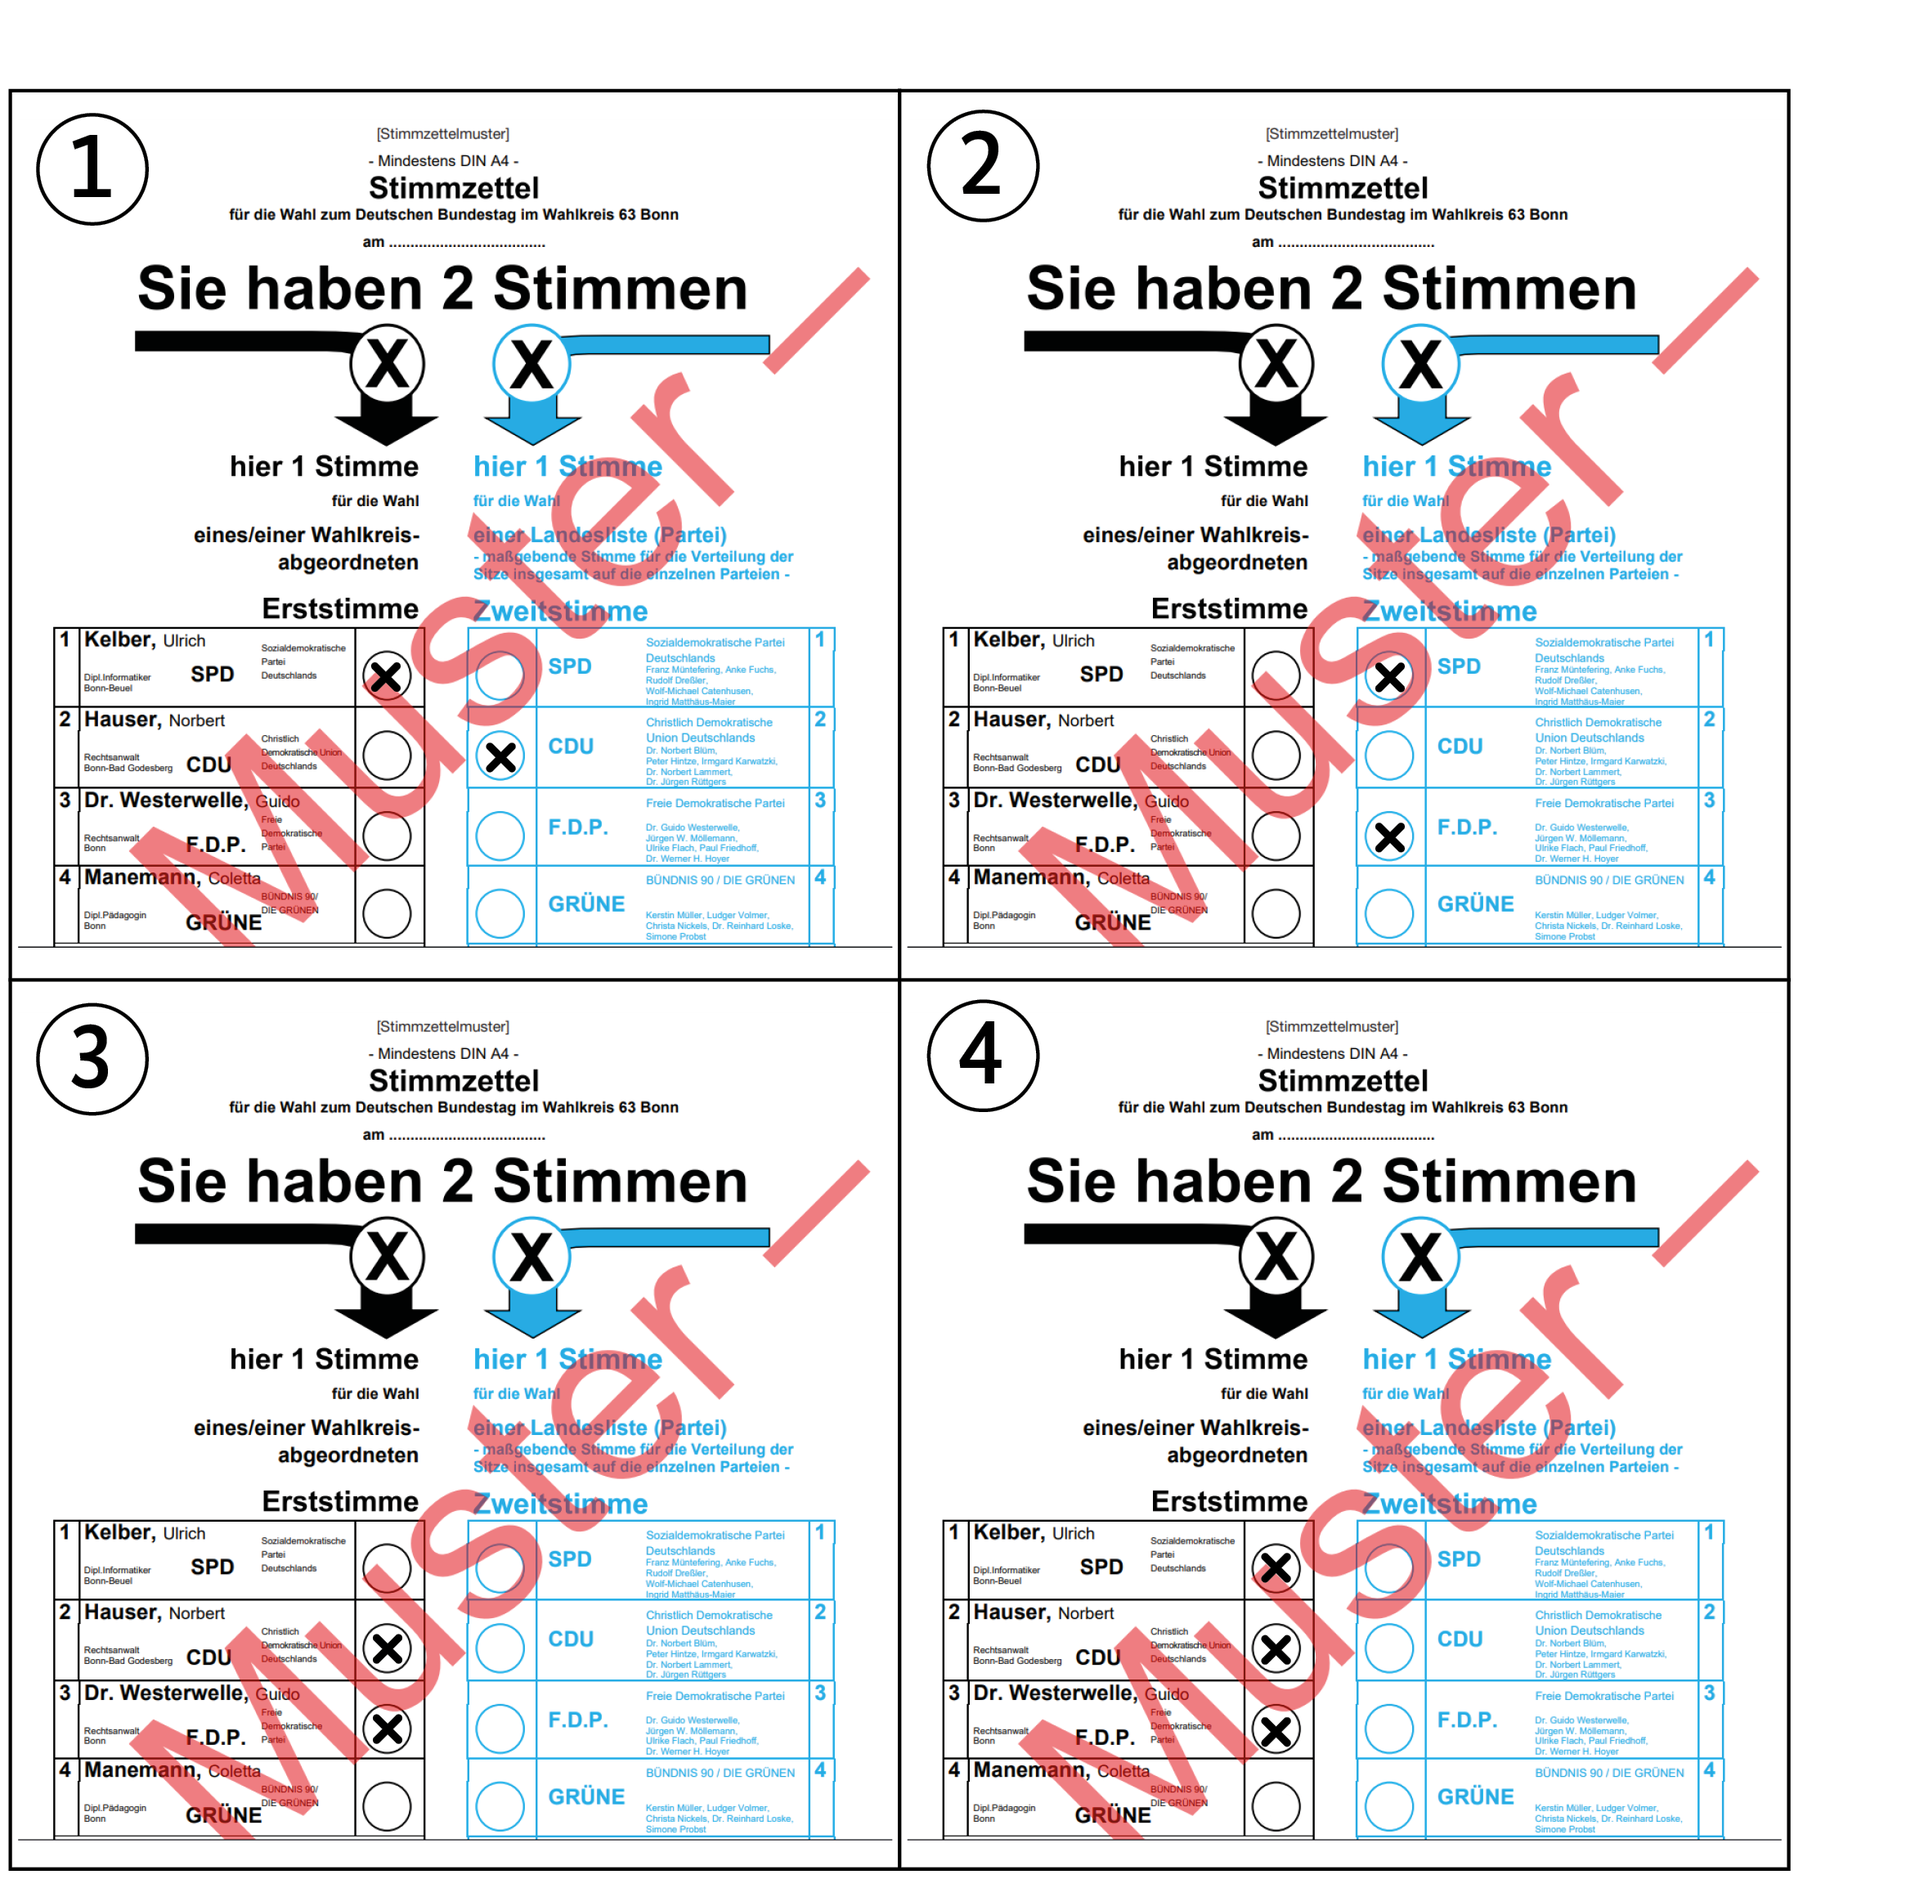
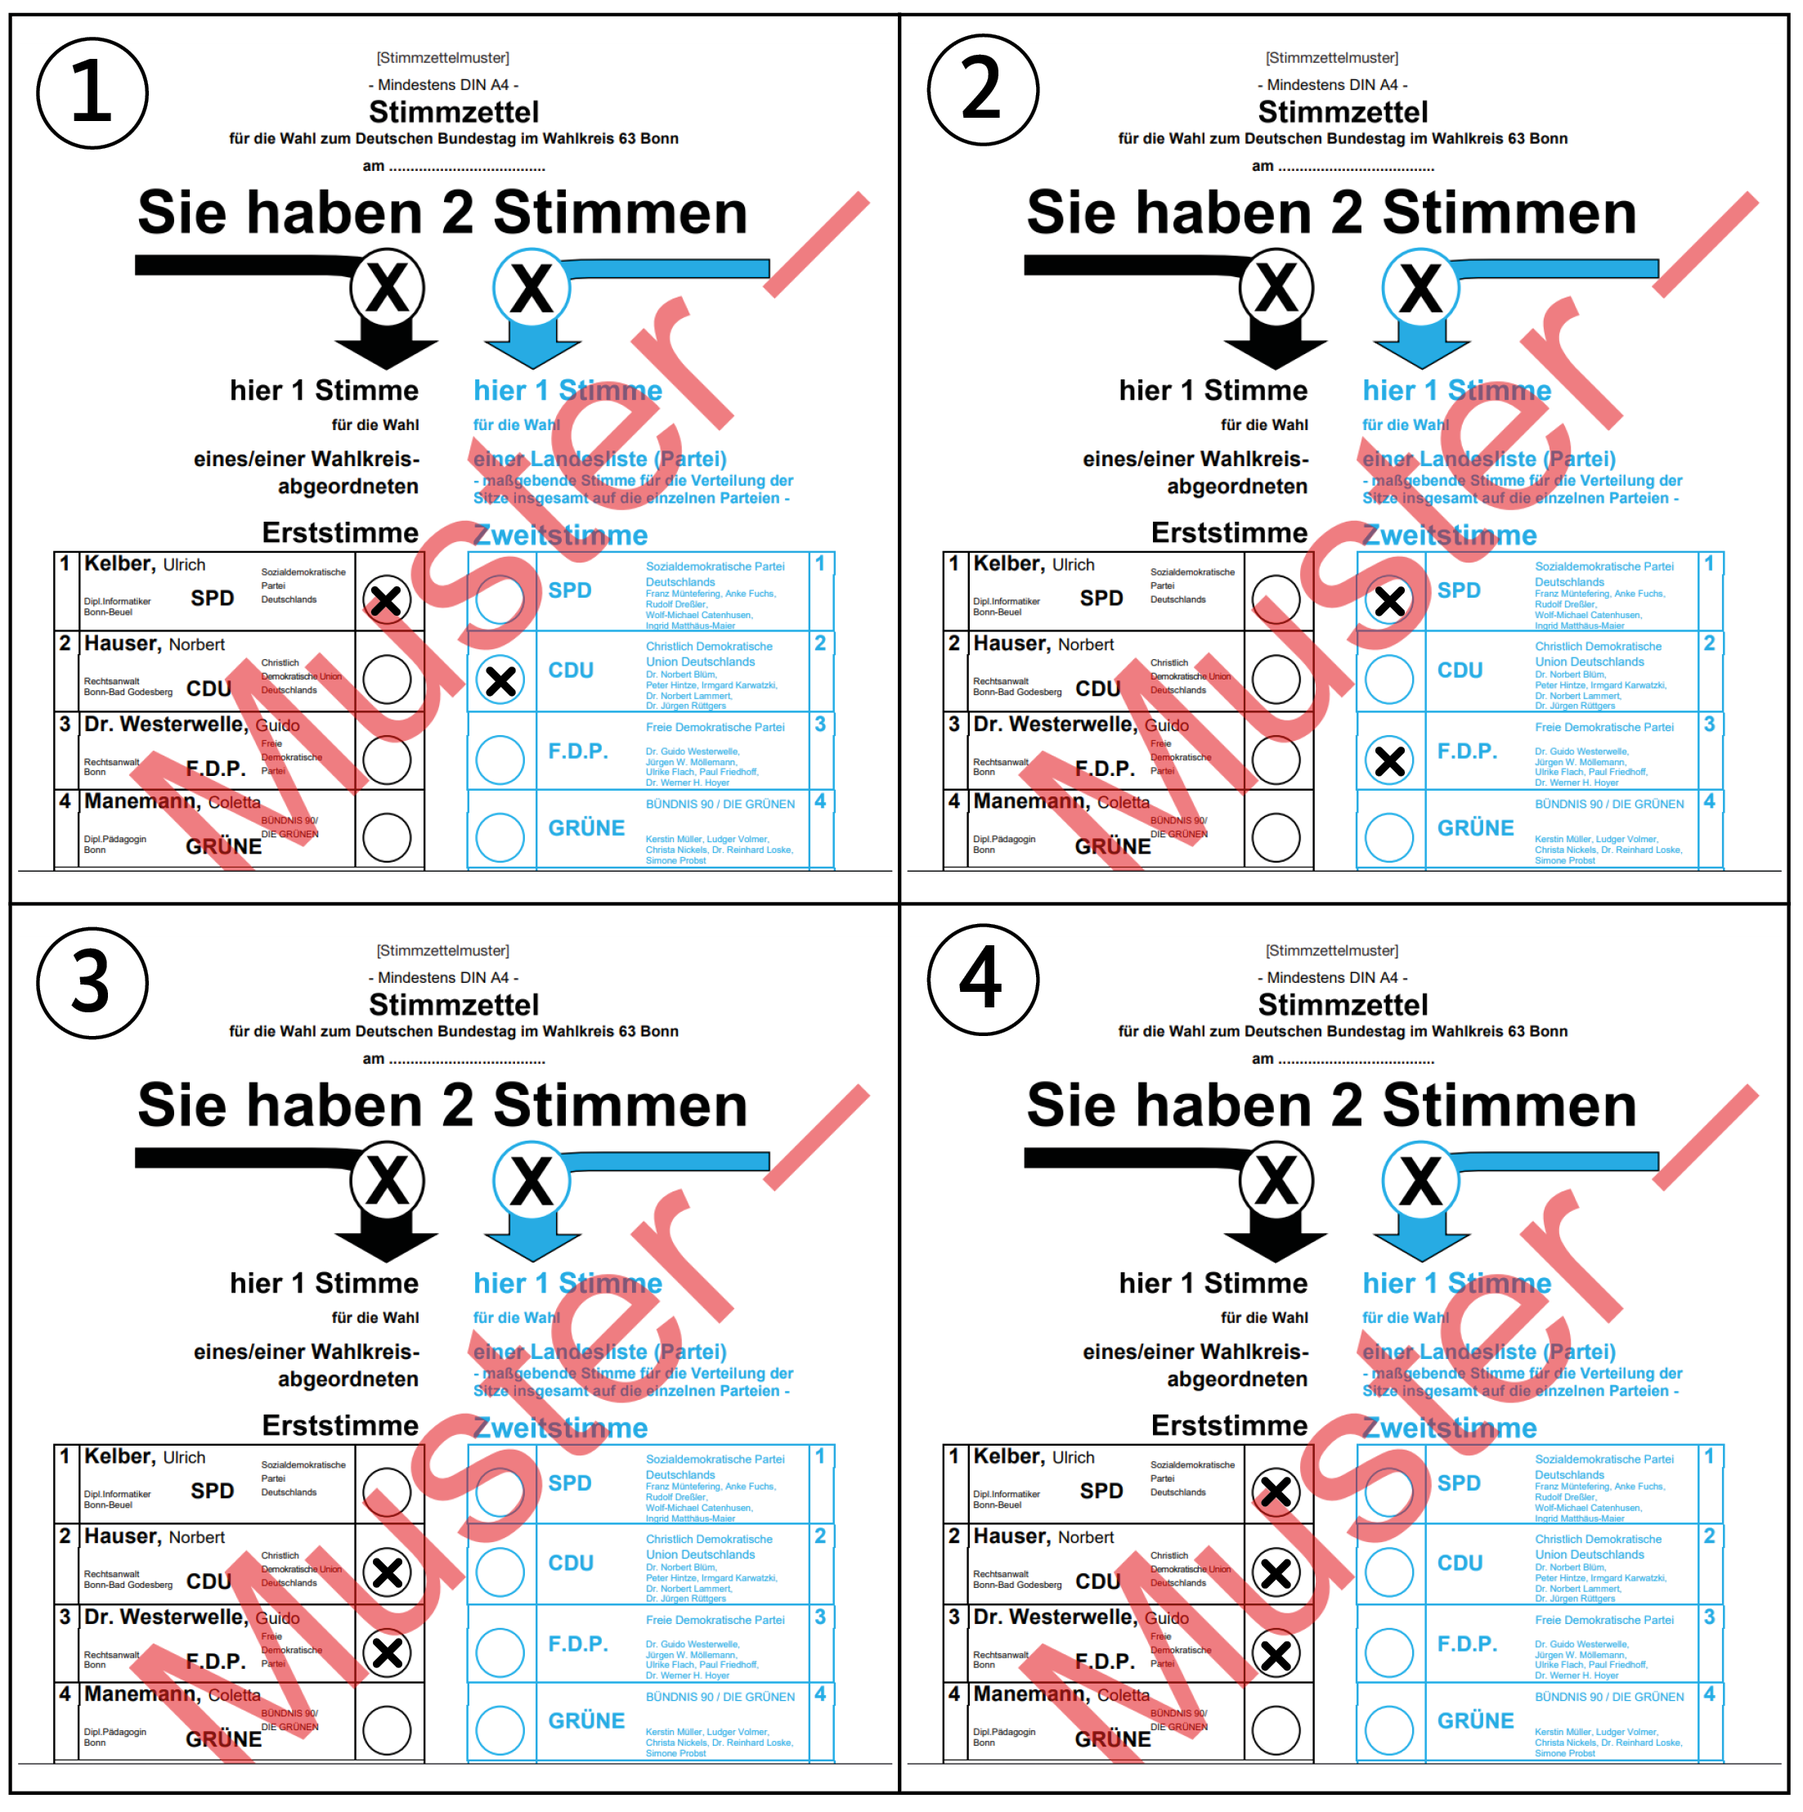
pop up window and upgrade qustions

diff --git a/lib/src/widgets/question_card.dart b/lib/src/widgets/question_card.dart
@@ -1,4 +1,6 @@
 import 'package:flutter/material.dart';
+import 'dart:async';
+import 'package:citizenship_quiz_app/src/screens/image_viewer_screen.dart';
 
 class QuestionCard extends StatelessWidget {
   final String text;
@@ -31,32 +33,13 @@ class QuestionCard extends StatelessWidget {
             ),
             if (image != null && image!.isNotEmpty) ...[
               const SizedBox(height: 12),
-              ClipRRect(
-                borderRadius: BorderRadius.circular(10),
-                child: Container(
-                  color: theme.colorScheme.surfaceVariant,
-                  padding: const EdgeInsets.all(8),
-                  child: LayoutBuilder(
-                    builder: (context, constraints) {
-                      final maxH = MediaQuery.of(context).size.height * 0.35; // cap at ~35% of screen
-                      return ConstrainedBox(
-                        constraints: BoxConstraints(maxHeight: maxH),
-                        child: Center(
-                          child: Image.asset(
-                            image!,
-                            fit: BoxFit.contain,
-                            filterQuality: FilterQuality.medium,
-                            errorBuilder: (_, __, ___) => Container(
-                              height: 140,
-                              alignment: Alignment.center,
-                              child: const Text('Bild nicht gefunden'),
-                            ),
-                          ),
-                        ),
-                      );
-                    },
-                  ),
-                ),
+              _TappableProportionalAssetImage(
+                imagePath: image!,
+                backgroundColor: theme.colorScheme.surfaceVariant,
+                borderRadius: 10,
+                padding: const EdgeInsets.all(8),
+                maxHeightFraction: 0.35,
+                heroTag: 'q-img-$index-${image!}',
               ),
             ],
             if (subtitle != null && subtitle!.isNotEmpty) ...[
@@ -64,6 +47,147 @@ class QuestionCard extends StatelessWidget {
               Text(subtitle!, style: theme.textTheme.bodyMedium),
             ],
           ],
+        ),
+      ),
+    );
+  }
+}
+
+class _ProportionalAssetImage extends StatelessWidget {
+  final String imagePath;
+  final Color backgroundColor;
+  final double borderRadius;
+  final EdgeInsetsGeometry padding;
+  final double maxHeightFraction; // e.g., 0.35 of screen height
+
+  const _ProportionalAssetImage({
+    required this.imagePath,
+    required this.backgroundColor,
+    required this.borderRadius,
+    required this.padding,
+    required this.maxHeightFraction,
+  });
+
+  @override
+  Widget build(BuildContext context) {
+    final maxHeight = MediaQuery.of(context).size.height * maxHeightFraction;
+    return ClipRRect(
+      borderRadius: BorderRadius.circular(borderRadius),
+      child: Container(
+        color: backgroundColor,
+        padding: padding,
+        child: LayoutBuilder(
+          builder: (context, constraints) {
+            return FutureBuilder<ImageInfo>(
+              future: _getImageInfo(imagePath),
+              builder: (context, snapshot) {
+                if (snapshot.hasError) {
+                  return SizedBox(
+                    height: 140,
+                    child: const Center(child: Text('Bild nicht gefunden')),
+                  );
+                }
+                if (!snapshot.hasData) {
+                  return const SizedBox(height: 140, child: Center(child: CircularProgressIndicator(strokeWidth: 2)));
+                }
+                final info = snapshot.data!;
+                final aspect = info.image.width / info.image.height;
+                // Compute target size to fit within maxHeight and available width
+                final availableWidth = constraints.maxWidth;
+                double targetWidth = availableWidth;
+                double targetHeight = targetWidth / aspect;
+                if (targetHeight > maxHeight) {
+                  targetHeight = maxHeight;
+                  targetWidth = targetHeight * aspect;
+                }
+                final innerRadius = borderRadius > 2 ? borderRadius - 2 : borderRadius;
+
+                return SizedBox(
+                  height: targetHeight,
+                  child: Center(
+                    child: ClipRRect(
+                      borderRadius: BorderRadius.circular(innerRadius),
+                      child: Image.asset(
+                        imagePath,
+                        width: targetWidth,
+                        height: targetHeight,
+                        fit: BoxFit.fill, // already computed proportional size
+                        filterQuality: FilterQuality.medium,
+                        errorBuilder: (_, __, ___) => SizedBox(
+                          height: 140,
+                          child: const Center(child: Text('Bild nicht gefunden')),
+                        ),
+                      ),
+                    ),
+                  ),
+                );
+              },
+            );
+          },
+        ),
+      ),
+    );
+  }
+
+  Future<ImageInfo> _getImageInfo(String assetPath) async {
+    final imageProvider = AssetImage(assetPath);
+    final completer = Completer<ImageInfo>();
+    final stream = imageProvider.resolve(const ImageConfiguration());
+    late final ImageStreamListener listener;
+    listener = ImageStreamListener((ImageInfo info, bool _) {
+      completer.complete(info);
+    }, onError: (error, stackTrace) {
+      completer.completeError(error, stackTrace);
+    });
+    stream.addListener(listener);
+    try {
+      final info = await completer.future;
+      return info;
+    } finally {
+      stream.removeListener(listener);
+    }
+  }
+}
+
+class _TappableProportionalAssetImage extends StatelessWidget {
+  final String imagePath;
+  final Color backgroundColor;
+  final double borderRadius;
+  final EdgeInsetsGeometry padding;
+  final double maxHeightFraction;
+  final String heroTag;
+
+  const _TappableProportionalAssetImage({
+    required this.imagePath,
+    required this.backgroundColor,
+    required this.borderRadius,
+    required this.padding,
+    required this.maxHeightFraction,
+    required this.heroTag,
+  });
+
+  @override
+  Widget build(BuildContext context) {
+    return GestureDetector(
+      onTap: () {
+        Navigator.of(context).push(
+          PageRouteBuilder(
+            pageBuilder: (_, __, ___) => ImageViewerScreen(imagePath: imagePath, heroTag: heroTag),
+            transitionsBuilder: (context, animation, secondaryAnimation, child) {
+              return FadeTransition(opacity: animation, child: child);
+            },
+          ),
+        );
+      },
+      child: Hero(
+        tag: heroTag,
+        // Keep rounded context image in card
+        child: _ProportionalAssetImage(
+          imagePath: imagePath,
+          backgroundColor: backgroundColor,
+          borderRadius: borderRadius,
+          padding: padding,
+          maxHeightFraction: maxHeightFraction,
         ),
       ),
     );

diff --git a/lib/src/screens/image_viewer_screen.dart b/lib/src/screens/image_viewer_screen.dart
@@ -1,0 +1,68 @@
+import 'package:flutter/material.dart';
+import 'package:flutter/services.dart';
+
+class ImageViewerScreen extends StatelessWidget {
+  final String imagePath;
+  final String? heroTag;
+
+  const ImageViewerScreen({super.key, required this.imagePath, this.heroTag});
+
+  @override
+  Widget build(BuildContext context) {
+    final theme = Theme.of(context);
+    final isDark = theme.brightness == Brightness.dark;
+    final overlay = isDark ? SystemUiOverlayStyle.light : SystemUiOverlayStyle.dark;
+
+    final imageWidget = Image.asset(
+      imagePath,
+      errorBuilder: (_, __, ___) => Center(
+        child: Text('Bild nicht gefunden', style: theme.textTheme.bodyMedium),
+      ),
+      filterQuality: FilterQuality.high,
+    );
+
+    final heroWrapped = heroTag != null ? Hero(tag: heroTag!, child: imageWidget) : imageWidget;
+
+    return AnnotatedRegion<SystemUiOverlayStyle>(
+      value: overlay,
+      child: Scaffold(
+        backgroundColor: theme.scaffoldBackgroundColor,
+        appBar: AppBar(
+          backgroundColor: theme.colorScheme.surface,
+          foregroundColor: theme.colorScheme.onSurface,
+          elevation: 0,
+          leading: IconButton(
+            icon: const Icon(Icons.arrow_back),
+            onPressed: () => Navigator.of(context).maybePop(),
+            tooltip: 'Zurück',
+          ),
+        ),
+        body: SafeArea(
+          child: Padding(
+            padding: const EdgeInsets.all(12),
+            child: Center(
+              // Center the image and contain it within the available space.
+              child: InteractiveViewer(
+                minScale: 0.5,
+                maxScale: 5.0,
+                child: LayoutBuilder(
+                  builder: (context, constraints) {
+                    return SizedBox(
+                      width: constraints.maxWidth,
+                      height: constraints.maxHeight,
+                      child: FittedBox(
+                        fit: BoxFit.contain,
+                        alignment: Alignment.center,
+                        child: heroWrapped,
+                      ),
+                    );
+                  },
+                ),
+              ),
+            ),
+          ),
+        ),
+      ),
+    );
+  }
+}

diff --git a/lib/src/widgets/image_answer_grid.dart b/lib/src/widgets/image_answer_grid.dart
@@ -68,7 +68,8 @@ class ImageAnswerGrid extends StatelessWidget {
         return Material(
           color: Colors.transparent,
           shape: shape,
-          clipBehavior: Clip.antiAlias,
+          // Do not clip children so image edges stay intact (not rounded)
+          clipBehavior: Clip.none,
           child: InkWell(
             customBorder: shape,
             onTap: () => onTap(i),
@@ -89,7 +90,11 @@ class ImageAnswerGrid extends StatelessWidget {
                 ),
               ),
               if (overlay != null)
-                Container(color: overlay),
+                // Keep rounded highlight while preserving image edges
+                ClipRRect(
+                  borderRadius: BorderRadius.circular(12),
+                  child: Container(color: overlay),
+                ),
               if (icon != null)
                 Positioned(right: 8, top: 8, child: Icon(icon, color: iconColor, size: 24)),
             ]),
